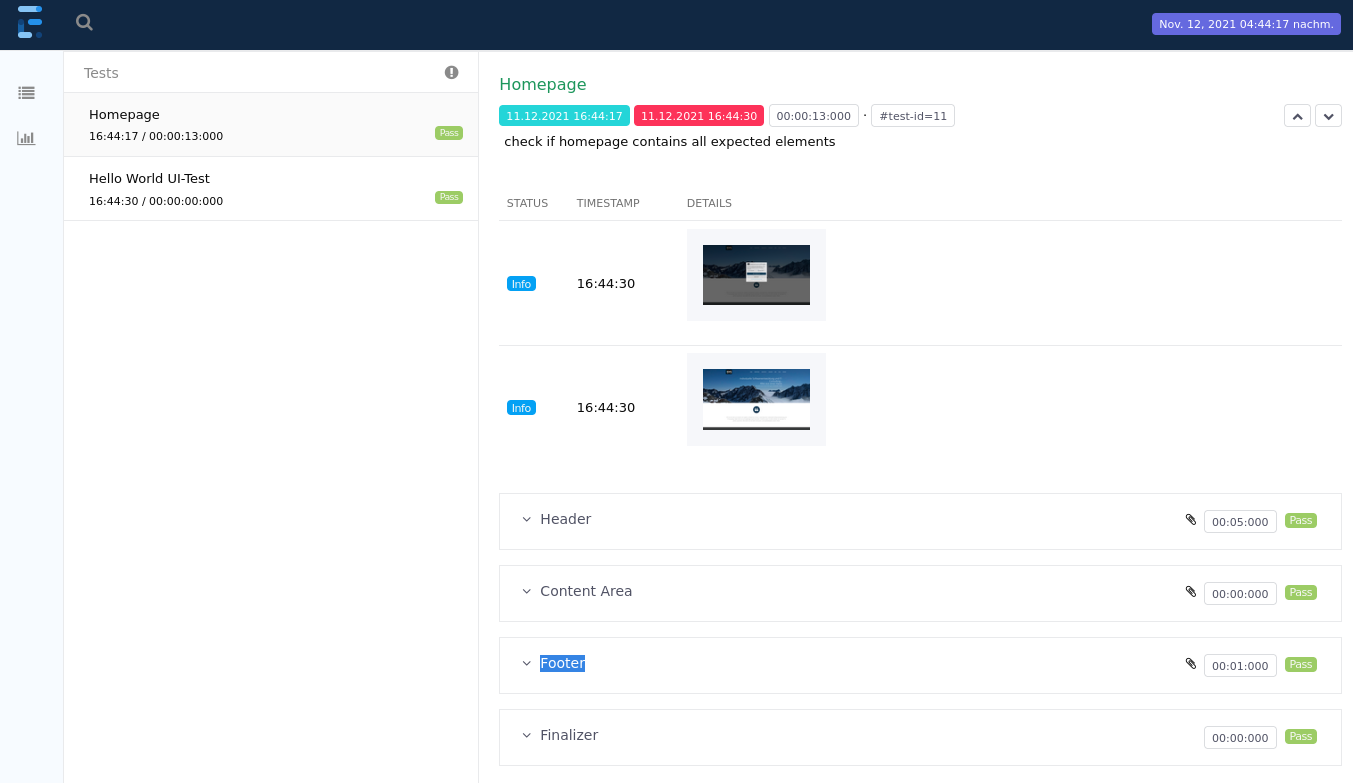
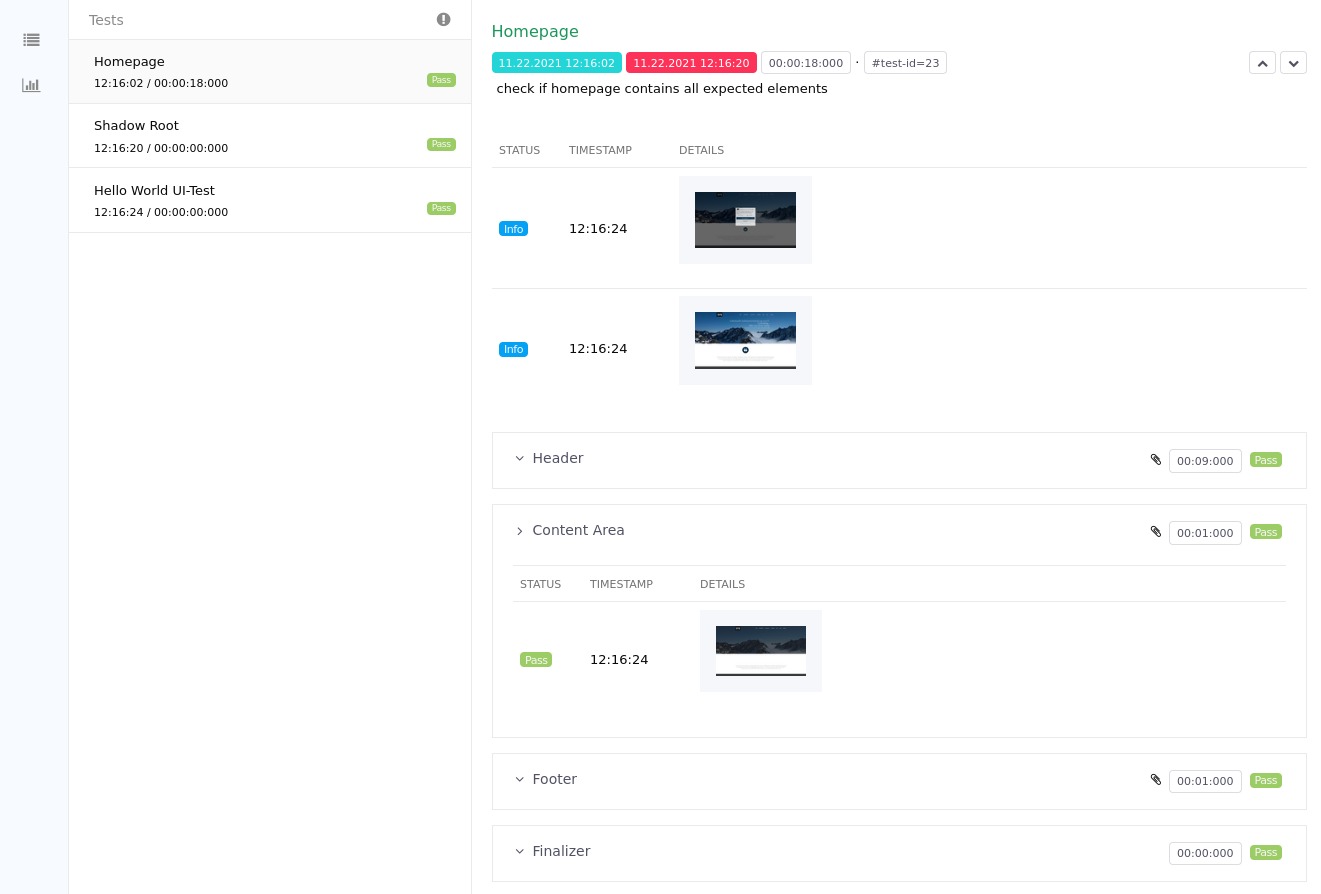
Implement Shadow Root Fix for Chrome 96

diff --git a/src/main/java/de/isys/selrep/StandardMacros.java b/src/main/java/de/isys/selrep/StandardMacros.java
@@ -10,12 +10,15 @@ import org.openqa.selenium.Dimension;
 import org.openqa.selenium.JavascriptExecutor;
 import org.openqa.selenium.WebDriver;
 import org.openqa.selenium.WebElement;
+import org.openqa.selenium.remote.RemoteWebDriver;
+import org.openqa.selenium.remote.RemoteWebElement;
 
 import java.io.IOException;
 import java.net.URI;
 import java.net.http.HttpClient;
 import java.net.http.HttpRequest;
 import java.net.http.HttpResponse;
+import java.util.Map;
 
 import static com.codeborne.selenide.Selectors.*;
 import static com.codeborne.selenide.Selenide.*;
@@ -55,9 +58,32 @@ public class StandardMacros {
     SelenideElement getShadowRootFor(SelenideElement host) {
         WebDriver webDriver = getWebDriver();
         JavascriptExecutor jse = (JavascriptExecutor) webDriver;
-        WebElement shadowRoot = (WebElement) jse.executeScript("return arguments[0].shadowRoot", host);
+        Object shadowRoot = jse.executeScript("return arguments[0].shadowRoot", host);
         if (shadowRoot == null) throw new UITestException("No Shadow Root for " + host);
-        return $(shadowRoot);
+        return $(getWebElement(shadowRoot, webDriver));
+    }
+
+    public WebElement getWebElement(Object shadowRoot, WebDriver webDriver) {
+        WebElement returnObj = null;
+        if (shadowRoot instanceof WebElement) {
+            // ChromeDriver 95
+            returnObj = (WebElement) shadowRoot;
+        }
+        else if (shadowRoot instanceof Map)  {
+            // ChromeDriver 96+
+            // Based on https://github.com/SeleniumHQ/selenium/issues/10050#issuecomment-974231601
+            Map<String, Object> shadowRootMap = (Map<String, Object>) shadowRoot;
+            String shadowRootKey = (String) shadowRootMap.keySet().toArray()[0];
+            String id = (String) shadowRootMap.get(shadowRootKey);
+            RemoteWebElement remoteWebElement = new RemoteWebElement();
+            remoteWebElement.setParent((RemoteWebDriver) webDriver);
+            remoteWebElement.setId(id);
+            returnObj = remoteWebElement;
+        }
+        else {
+            throw new UITestException("Unexpected return type for shadowRoot: " + shadowRoot.getClass().getName());
+        }
+        return returnObj;
     }
 
     SelenideElement getElementInShadowRootOf(SelenideElement host, By innerElement) {

diff --git a/src/test/java/tests/ShadowRootTest.java b/src/test/java/tests/ShadowRootTest.java
@@ -1,0 +1,29 @@
+package tests;
+
+import com.codeborne.selenide.SelenideElement;
+
+import de.isys.selrep.Fallbacks;
+import de.isys.selrep.UITest;
+
+import org.junit.Test;
+
+import static com.codeborne.selenide.Condition.*;
+import static com.codeborne.selenide.Selenide.*;
+
+@Fallbacks(baseUrl="https://start.vaadin.com/app/")
+public class ShadowRootTest extends UITest {
+
+    @Test
+    public void shadowRoot() {
+        this.run("Shadow Root", "check if shadow root is accessible by helper methods", settings -> {
+            open(BASE_URL);
+            $("footer button").click();
+            $$(".shepherd-header .shepherd-cancel-icon").filterBy(visible).first().click();
+            report.info("App Start Screen");
+            SelenideElement shadowRoot = getShadowRootFor($("#app-preview"));
+            report.info(shadowRoot.innerText(), false);
+            shadowRoot.$("#previewLumo").shouldBe(visible);
+        });
+    }
+
+}

diff --git a/src/main/java/de/isys/selrep/UITest.java b/src/main/java/de/isys/selrep/UITest.java
@@ -51,6 +51,7 @@ public abstract class UITest {
         System.out.println("BASE_URL: " + BASE_URL);
     }
 
+    // +++ System.setProperty("chromeoptions.args", "--lang=de");
     @BeforeClass
     public static void setUpClass() throws IOException {
         if (System.getProperty(SimpleLogger.DEFAULT_LOG_LEVEL_KEY) == null) {
@@ -105,7 +106,7 @@ public abstract class UITest {
 
     protected void run(String testName, String testDescription, UITestCallback callback) {
         run(testName, testDescription, callback, null);
-    };
+    }
 
     protected void run(String testName, 
                        String testDescription, 
